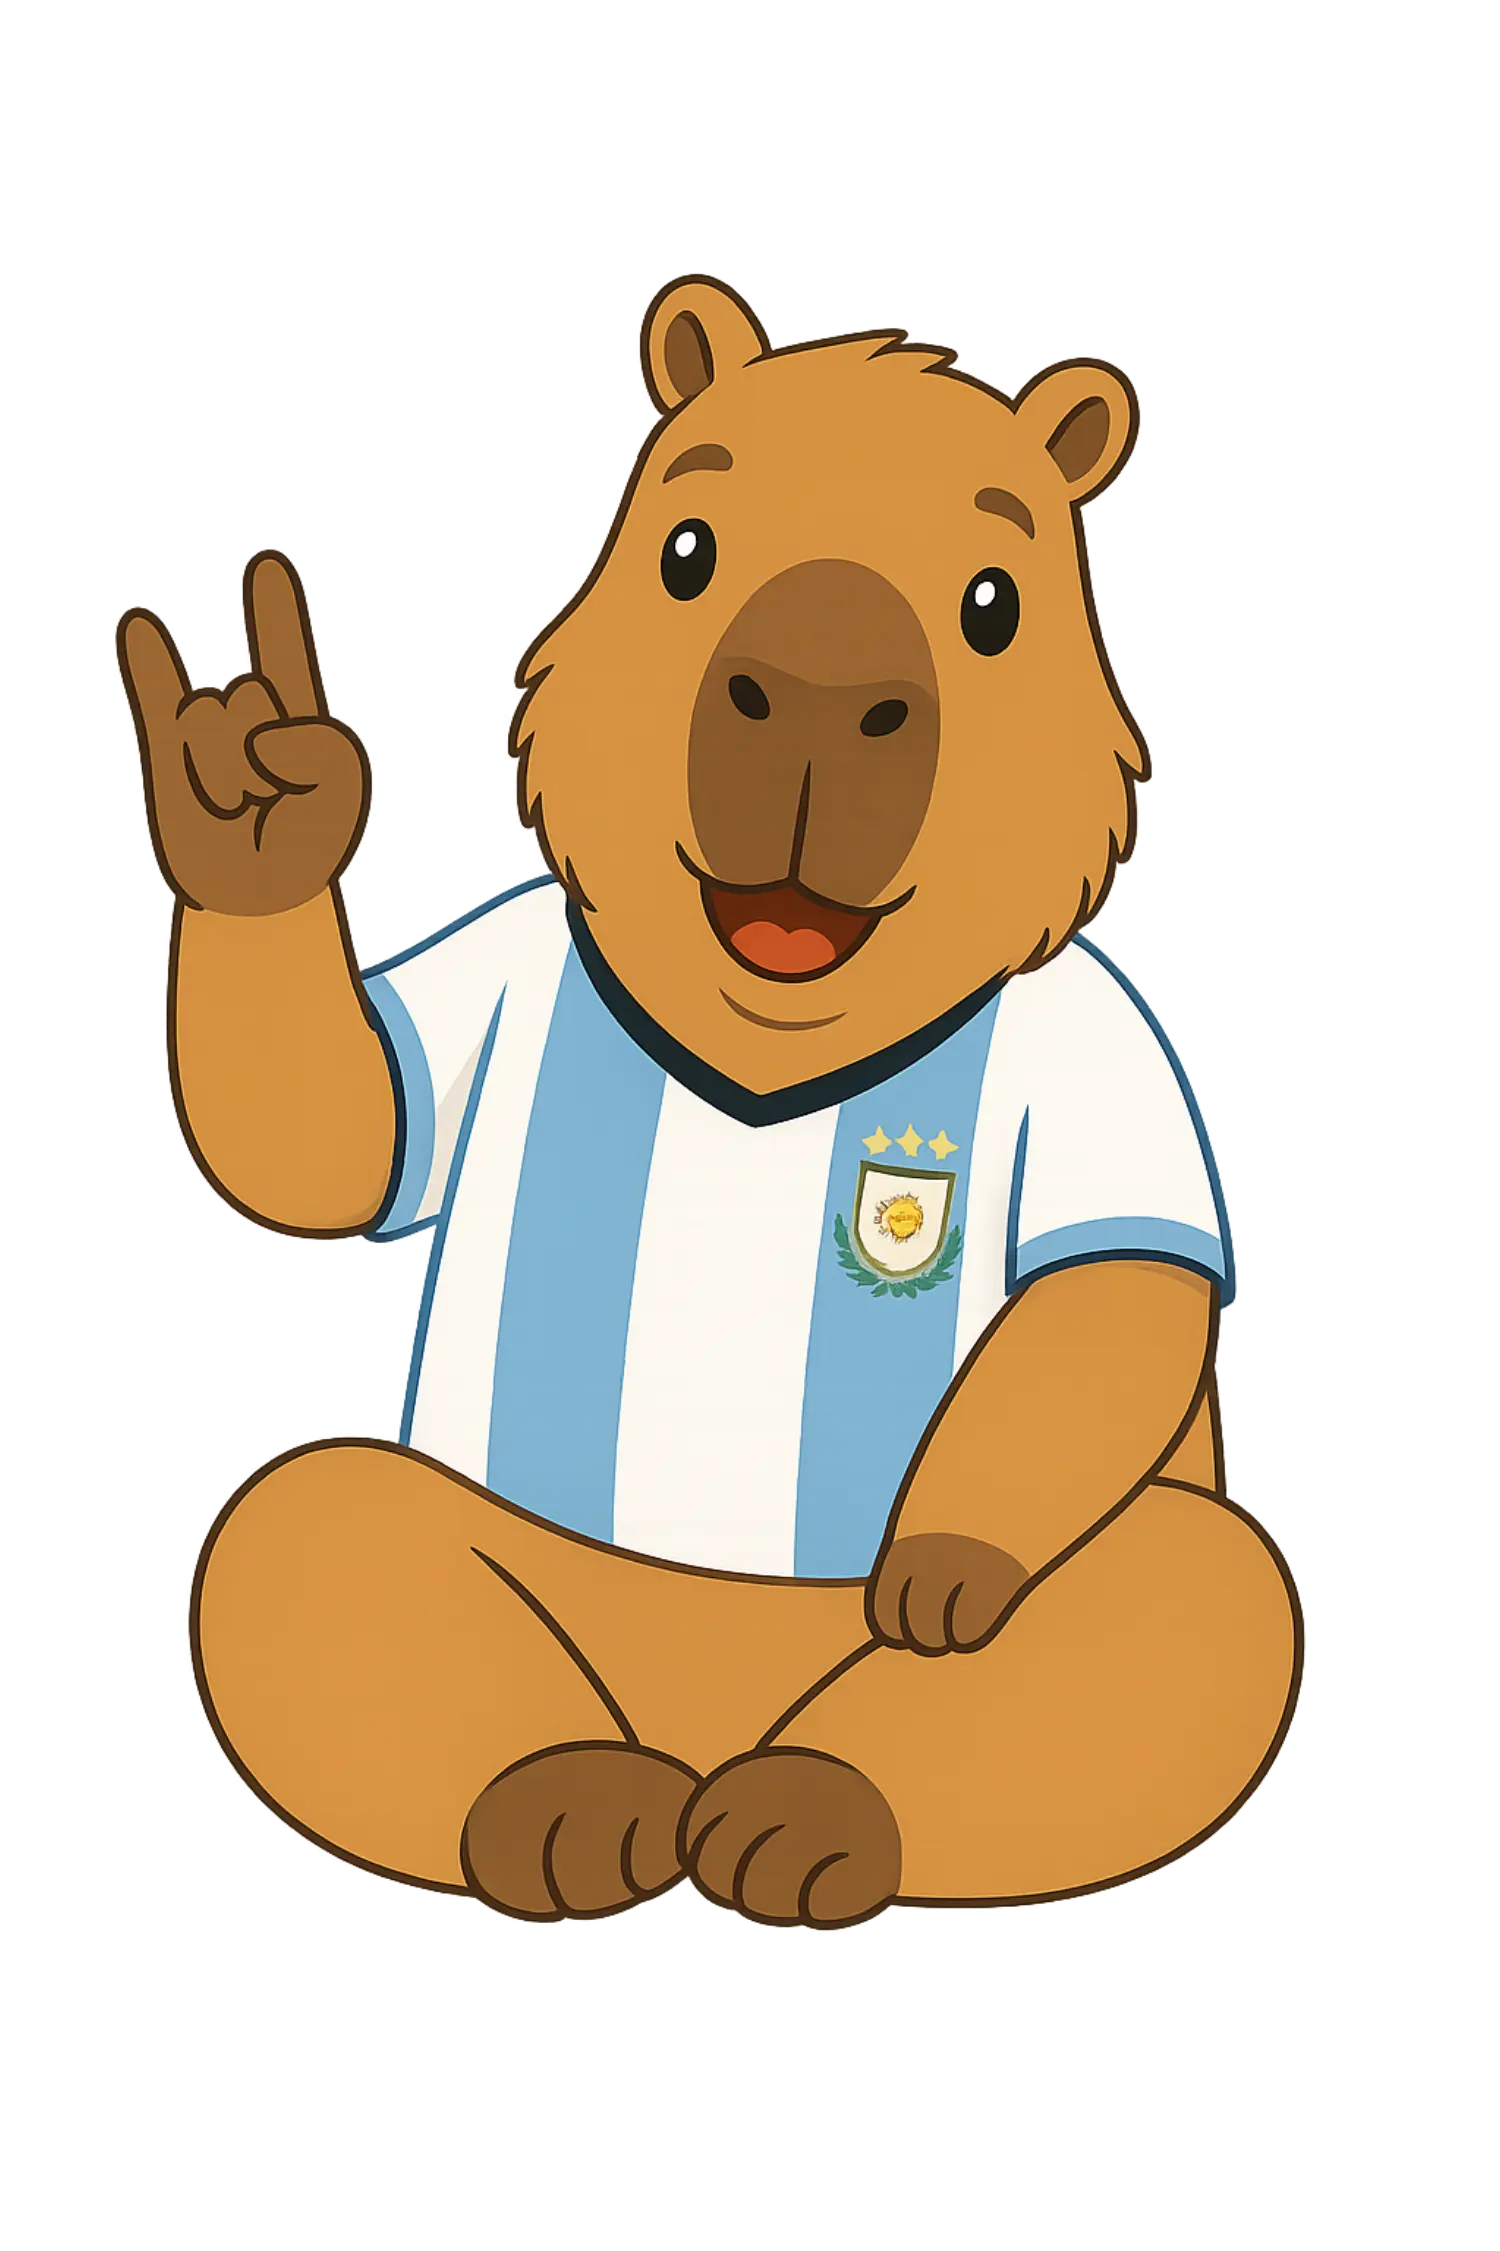
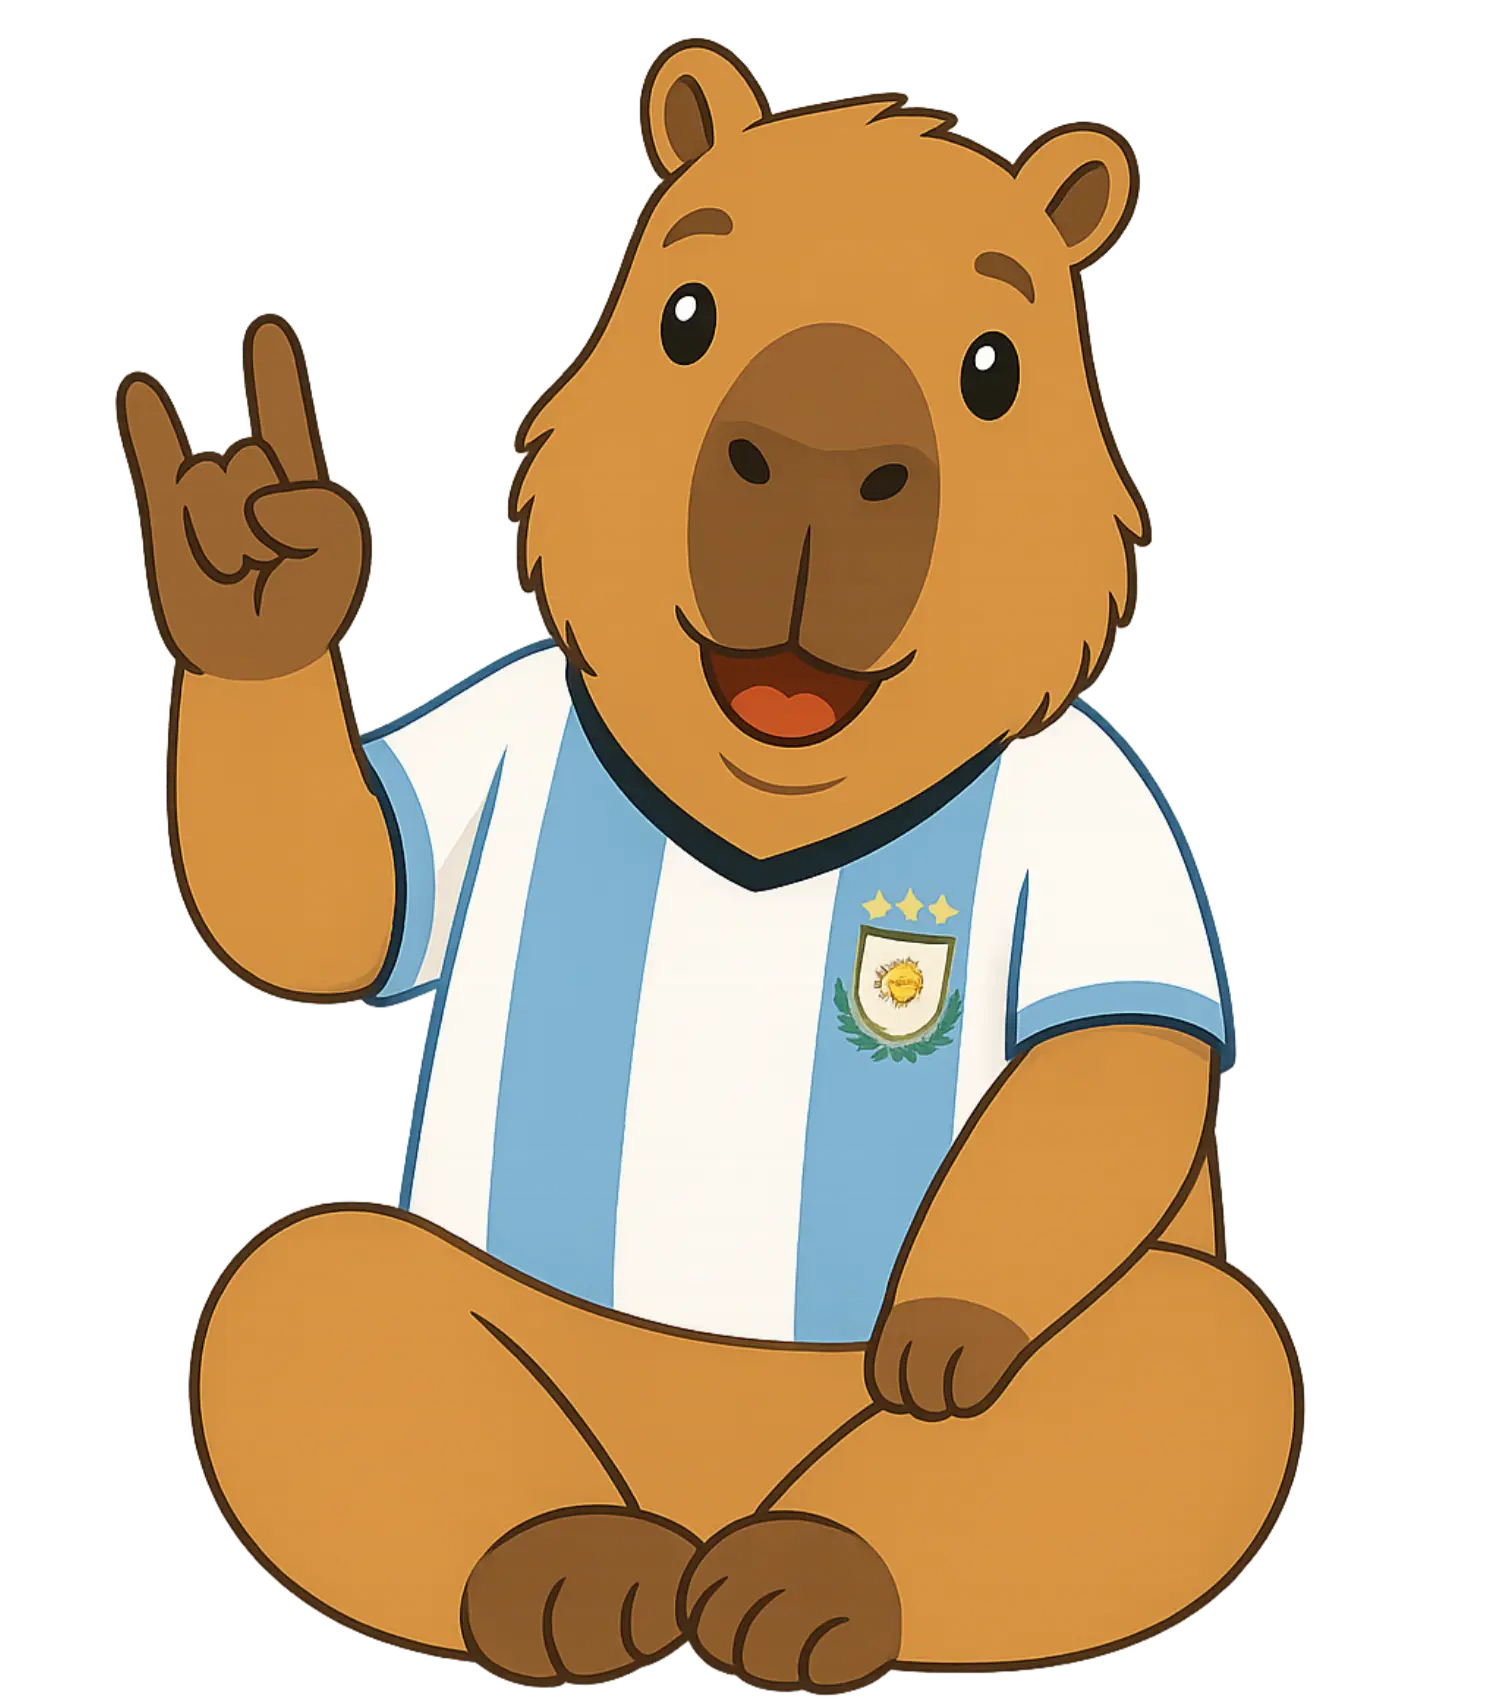
Cambio de ilustración del carpi con camiseta de Argentina

diff --git a/landing-page/src/components/demo/BenefitsIllustration.tsx b/landing-page/src/components/demo/BenefitsIllustration.tsx
@@ -1,9 +1,9 @@
-import carpiArg from '../../assets/images/demo/carpi-arg.webp'
+import carpiArg from '../../assets/images/demo/carpi_sena.webp'
 
 export default function BenefitsIlustration() {
     
     return (
-        <div className="transform scale-125 max-w-sm sm:max-w-none mx-auto sm:mx-0">
+        <div className="transform sm:scale-120 max-w-sm sm:max-w-none mx-auto sm:mx-0">
             <img
                 src={carpiArg}
                 alt="Carpincho usando la camiseta de argentina"
